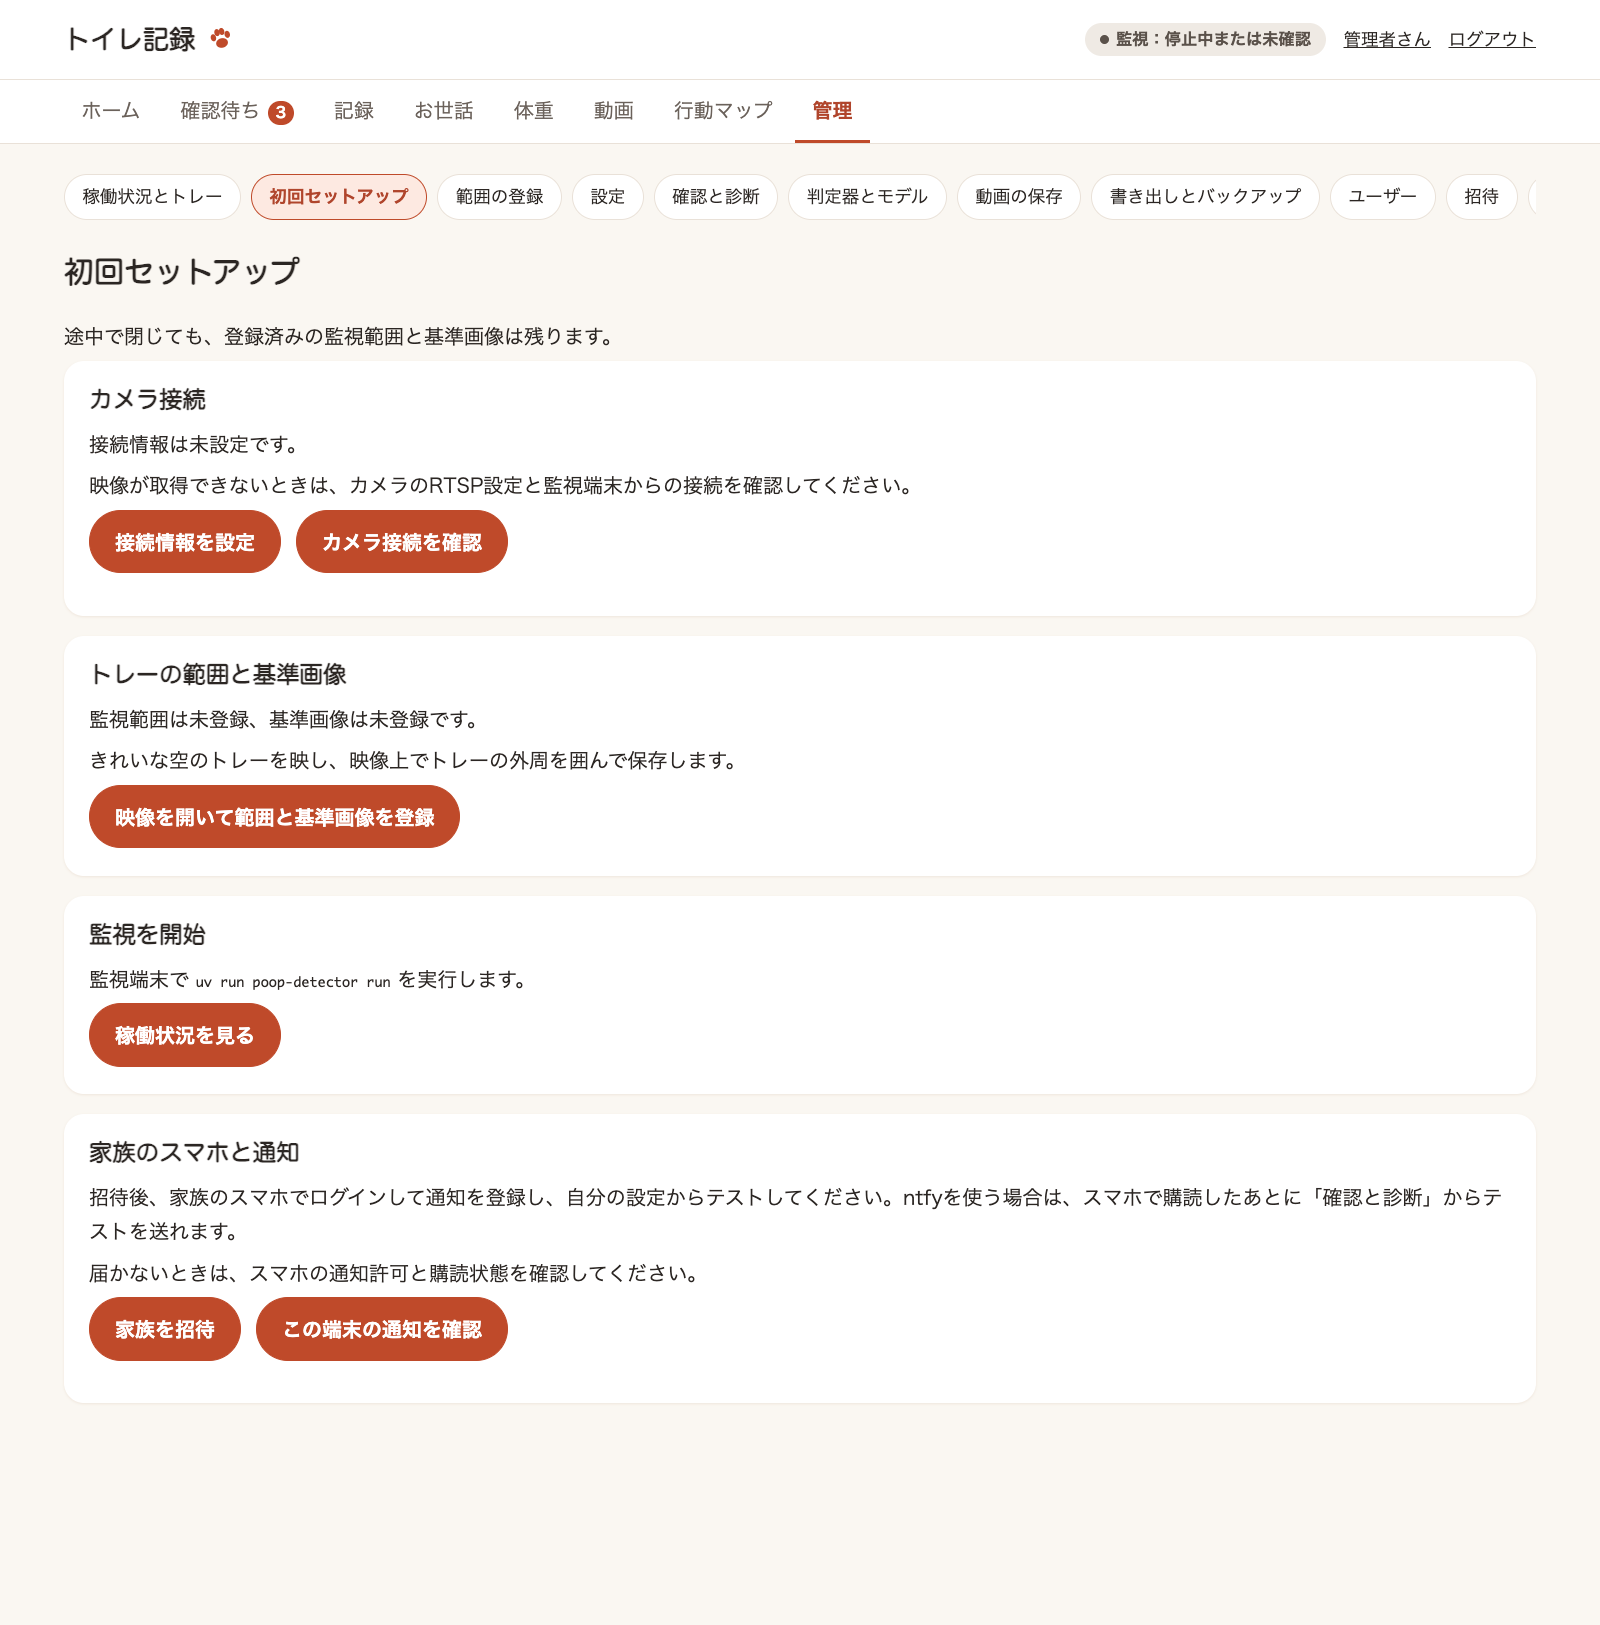
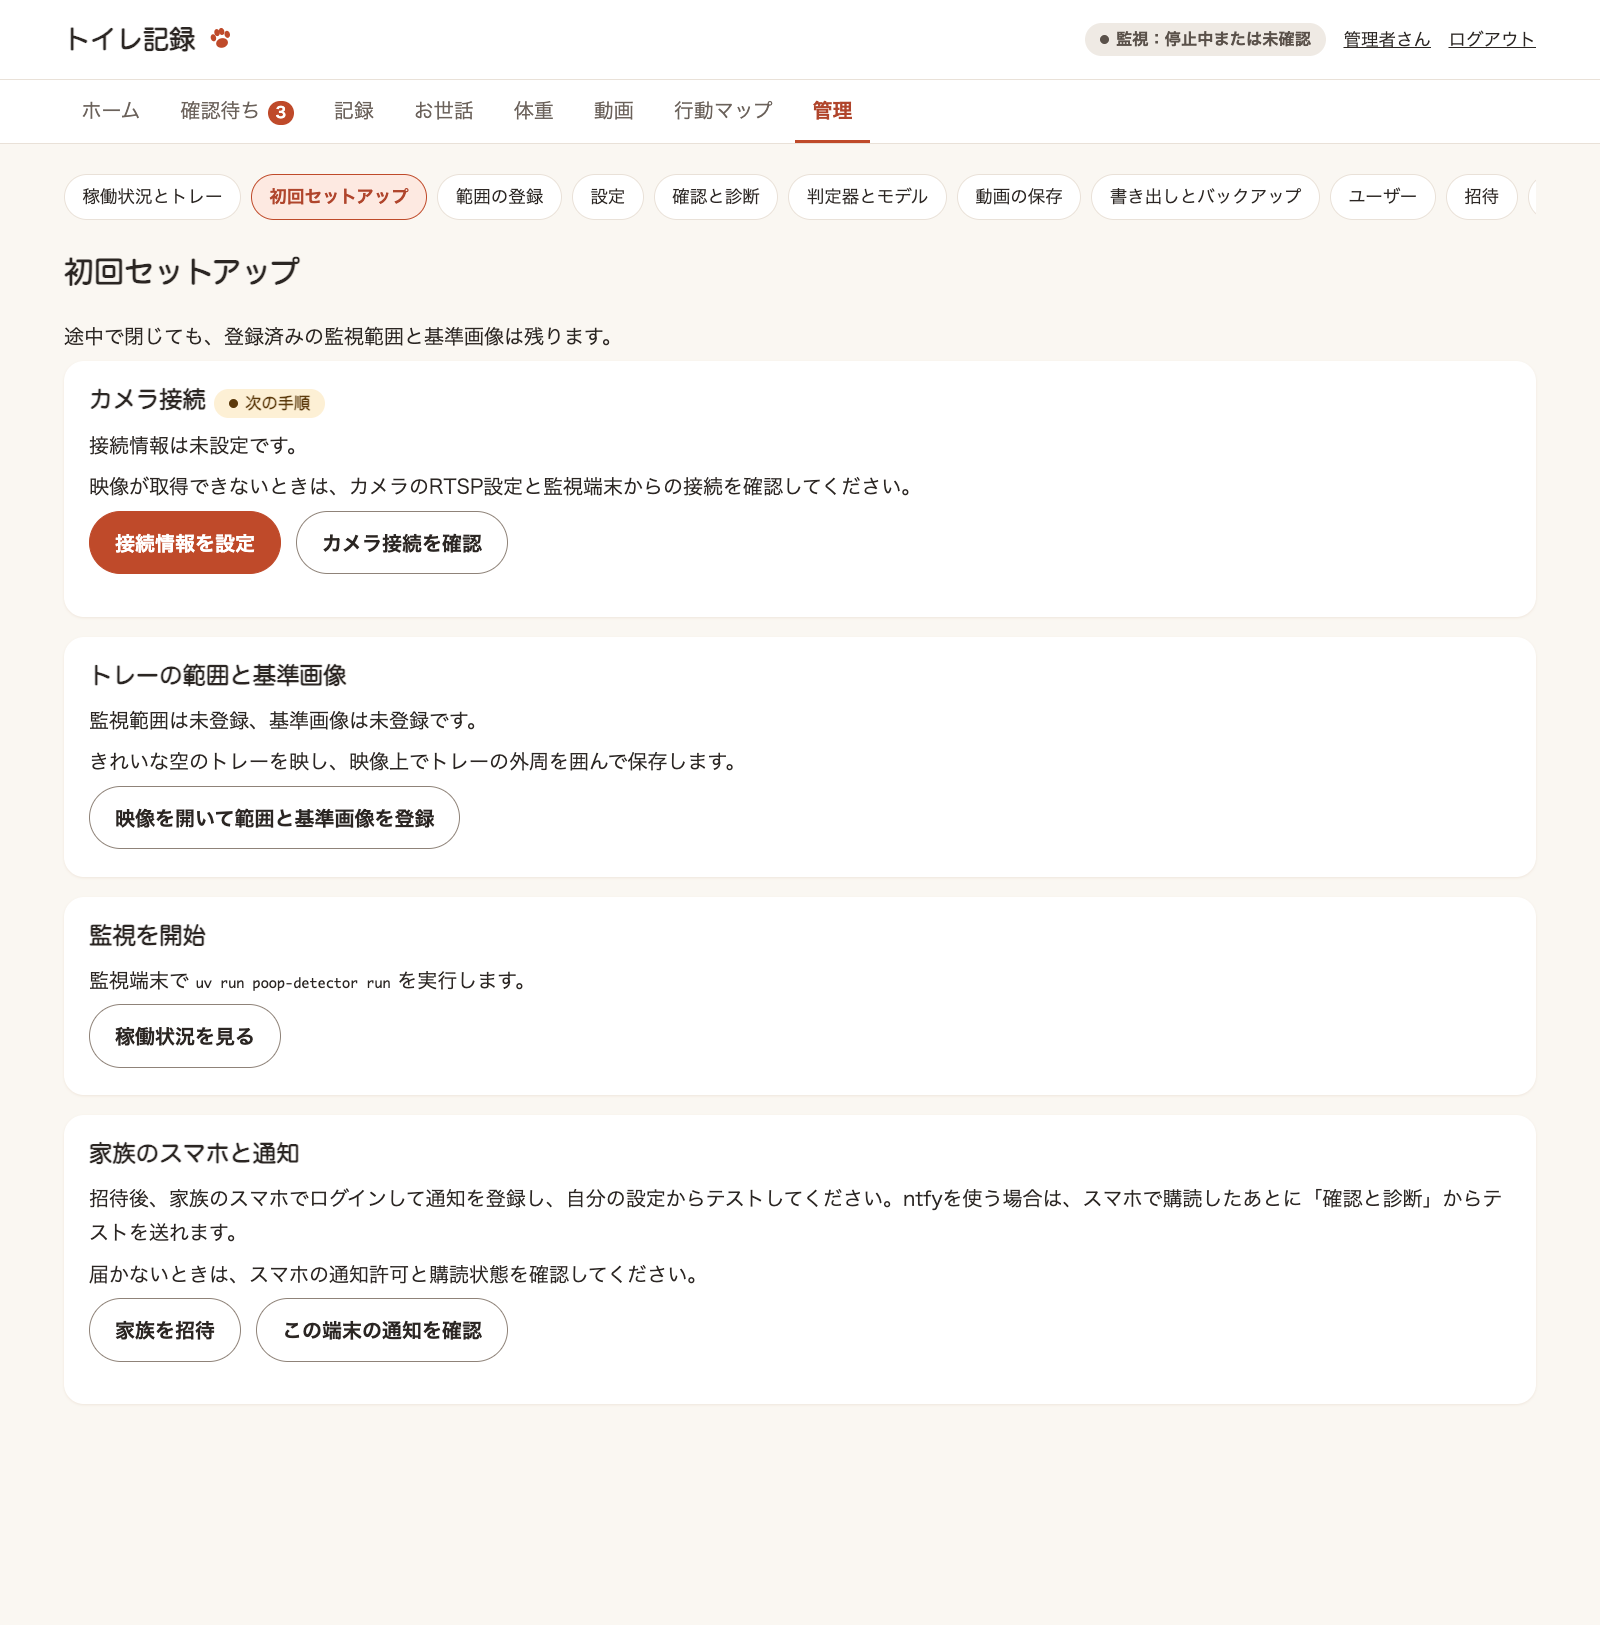
feat: 初回セットアップの塗りのボタンを、次の手順の1つだけにする (#178)
6つのボタンがすべて塗りで、どこから進めるかが分からなかった。
まだ済んでいない最初の手順を Python で決め、そのボタンだけを塗りにする。
見出しには「済み」「次の手順」のラベルを出す。

diff --git a/src/poop_detector/gui/templates/first_setup.html b/src/poop_detector/gui/templates/first_setup.html
@@ -1,21 +1,29 @@
+{#- 初回セットアップ。塗りのボタンは、まだ済んでいない最初の手順（next_step）の1つだけにする。 -#}
 {% extends "base.html" %}
+{% from "_macros.html" import chip %}
+{% macro state(step) -%}
+{% if next_step == step %} {{ chip("次の手順", "warn") }}{% elif done.get(step) %} {{ chip("済み", "ok") }}{% endif %}
+{%- endmacro %}
+{% macro link(step, href, text, main=true) -%}
+<a class="button{% if not (main and next_step == step) %} secondary{% endif %}" href="{{ href }}">{{ text }}</a>
+{%- endmacro %}
 {% block content %}
 <h2>初回セットアップ</h2>
 <p>途中で閉じても、登録済みの監視範囲と基準画像は残ります。</p>
 <section class="settings-section">
-  <h3>カメラ接続</h3>
+  <h3>カメラ接続{{ state("camera") }}</h3>
   <p>接続情報は{{ "設定済み" if camera_configured else "未設定" }}です。</p>
   <p>映像が取得できないときは、カメラのRTSP設定と監視端末からの接続を確認してください。</p>
-  <p class="toolbar"><a class="button" href="/manage/settings#connections-title">接続情報を設定</a><a class="button" href="/manage/checks">カメラ接続を確認</a></p>
+  <p class="toolbar">{{ link("camera", "/manage/settings#connections-title", "接続情報を設定") }}{{ link("camera", "/manage/checks", "カメラ接続を確認", main=false) }}</p>
 </section>
 <section class="settings-section">
-  <h3>トレーの範囲と基準画像</h3>
+  <h3>トレーの範囲と基準画像{{ state("tray") }}</h3>
   <p>監視範囲は{{ "登録済み" if roi_registered else "未登録" }}、基準画像は{{ "登録済み" if baseline_registered else "未登録" }}です。</p>
   <p>きれいな空のトレーを映し、映像上でトレーの外周を囲んで保存します。</p>
-  <p><a class="button" href="/manage/areas">映像を開いて範囲と基準画像を登録</a></p>
+  <p>{{ link("tray", "/manage/areas", "映像を開いて範囲と基準画像を登録") }}</p>
 </section>
 <section class="settings-section">
-  <h3>監視を開始</h3>
+  <h3>監視を開始{{ state("monitor") }}</h3>
   {% if monitor == "connected" %}
   <p>監視がカメラに接続中です。</p>
   {% elif monitor == "searching" %}
@@ -23,12 +31,12 @@
   {% else %}
   <p>監視端末で <code>uv run poop-detector run</code> を実行します。</p>
   {% endif %}
-  <p><a class="button" href="/manage">稼働状況を見る</a></p>
+  <p>{{ link("monitor", "/manage", "稼働状況を見る") }}</p>
 </section>
 <section class="settings-section">
-  <h3>家族のスマホと通知</h3>
+  <h3>家族のスマホと通知{{ state("family") }}</h3>
   <p>招待後、家族のスマホでログインして通知を登録し、自分の設定からテストしてください。ntfyを使う場合は、スマホで購読したあとに「確認と診断」からテストを送れます。</p>
   <p>届かないときは、スマホの通知許可と購読状態を確認してください。</p>
-  <p class="toolbar"><a class="button" href="/manage/invite">家族を招待</a><a class="button" href="/account#web-push">この端末の通知を確認</a></p>
+  <p class="toolbar">{{ link("family", "/manage/invite", "家族を招待") }}{{ link("family", "/account#web-push", "この端末の通知を確認", main=false) }}</p>
 </section>
 {% endblock %}

diff --git a/tests/test_gui_first_setup.py b/tests/test_gui_first_setup.py
@@ -1,5 +1,7 @@
 """管理者向けの初回設定で、登録済みの工程を確認する。"""
 
+import re
+
 import numpy as np
 from support import login, request
 
@@ -32,3 +34,40 @@ def test_first_setup_is_admin_only(gui):
     server, _, _ = gui
     assert request(server, "GET", "/manage/setup", auth=False)[0] == 403
     assert request(server, "GET", "/manage/setup", headers=login(server, role="member"))[0] == 403
+
+
+def primary_buttons(page):
+    """塗りのボタン（secondary・ghost でないボタン）のリンク先。"""
+    main = page.split("<main", 1)[1]
+    return re.findall(r'<a class="button" href="([^"]+)"', main)
+
+
+def test_first_setup_fills_only_the_next_step(gui, monkeypatch, tmp_path):
+    """1画面に主役は1つ。まだ済んでいない最初の手順のボタンだけを塗りにする。"""
+    server, store, _ = gui
+    monkeypatch.chdir(tmp_path)
+    monkeypatch.setenv("POOP_RTSP_URL", "")
+
+    def page():
+        return request(server, "GET", "/manage/setup")[1].decode()
+
+    assert primary_buttons(page()) == ["/manage/settings#connections-title"]
+    assert page().count('<span class="chip chip-warn">次の手順</span>') == 1
+    assert "済み</span>" not in page()
+
+    monkeypatch.setenv("POOP_RTSP_URL", "rtsp://secret.example")
+    assert primary_buttons(page()) == ["/manage/areas"]
+
+    roi = ROI(0, 0, 1, 1)
+    roi.save(store.root / "roi.json")
+    save_baseline(store.root / "baseline" / "empty.png", np.zeros((60, 80, 3), np.uint8), roi)
+    assert primary_buttons(page()) == ["/manage"]
+
+    server.app.preview.pulse(True)
+    done = page()
+    assert primary_buttons(done) == ["/manage/invite"]
+    assert done.count('<span class="chip chip-ok">済み</span>') == 3
+    assert done.count('<span class="chip chip-warn">次の手順</span>') == 1
+    # 塗りでないボタンも、押せるリンクとして残す。
+    for path in ("/manage/checks", "/manage/areas", "/manage", "/account#web-push"):
+        assert f'<a class="button secondary" href="{path}"' in done

diff --git a/src/poop_detector/gui/checks_routes.py b/src/poop_detector/gui/checks_routes.py
@@ -27,15 +27,34 @@ PAGE = "/manage/checks"
 def first_setup(handler: "Handler", _query: Query) -> None:
     app = handler.app
     context = CommandContext(_config(handler))
+    camera_configured = bool(load_connection_settings()["POOP_RTSP_URL"].strip())
+    roi_registered = context.roi_path.is_file()
+    baseline_registered = context.baseline_path.is_file()
+    monitor = app.preview.monitor_status()
+    done = {
+        "camera": camera_configured,
+        "tray": roi_registered and baseline_registered,
+        "monitor": monitor in ("connected", "searching"),
+    }
     page = render_template(
         "first_setup.html",
         title=app.title,
-        camera_configured=bool(load_connection_settings()["POOP_RTSP_URL"].strip()),
-        roi_registered=context.roi_path.is_file(),
-        baseline_registered=context.baseline_path.is_file(),
-        monitor=app.preview.monitor_status(),
+        camera_configured=camera_configured,
+        roi_registered=roi_registered,
+        baseline_registered=baseline_registered,
+        monitor=monitor,
+        done=done,
+        next_step=_next_step(done),
     )
     handler.respond(200, page)
+
+
+def _next_step(done: dict[str, bool]) -> str:
+    """まだ済んでいない最初の手順。画面はこの手順のボタンだけを塗りにする。
+
+    家族の招待と通知は済んだかを判断できないので、ほかがすべて済んだときの次の手順にする。
+    """
+    return next((step for step, finished in done.items() if not finished), "family")
 
 
 class NotificationFailedError(UserError):

diff --git a/docs/setup.md b/docs/setup.md
@@ -1,8 +1,8 @@
 # 初期設定
 
-GUI に管理者でログインすると、「管理 › 初回セットアップ」（`/manage/setup`）でカメラ接続・トレーの登録・監視の開始・家族の招待と通知を順に進められます。
+GUI に管理者でログインすると、「管理 › 初回セットアップ」（`/manage/setup`）でカメラ接続・トレーの登録・監視の開始・家族の招待と通知を順に進められます。済んだ手順には「済み」、まだ済んでいない最初の手順には「次の手順」と出て、塗りのボタンはその手順の1つだけです。
 
-![初回セットアップの画面。カメラ接続、トレーの範囲と基準画像、監視の開始、家族のスマホと通知の順に並ぶ（人工データ）](images/label-gui-setup.png)
+![初回セットアップの画面。カメラ接続、トレーの範囲と基準画像、監視の開始、家族のスマホと通知の順に並び、次の手順のカメラ接続だけが塗りのボタンになっている（人工データ）](images/label-gui-setup.png)
 
 カメラの準備から、監視領域（ROI）と空のトイレの基準画像の登録までを説明します。最短の手順は [README のクイックスタート](../README.md#クイックスタート) にあります。
 
